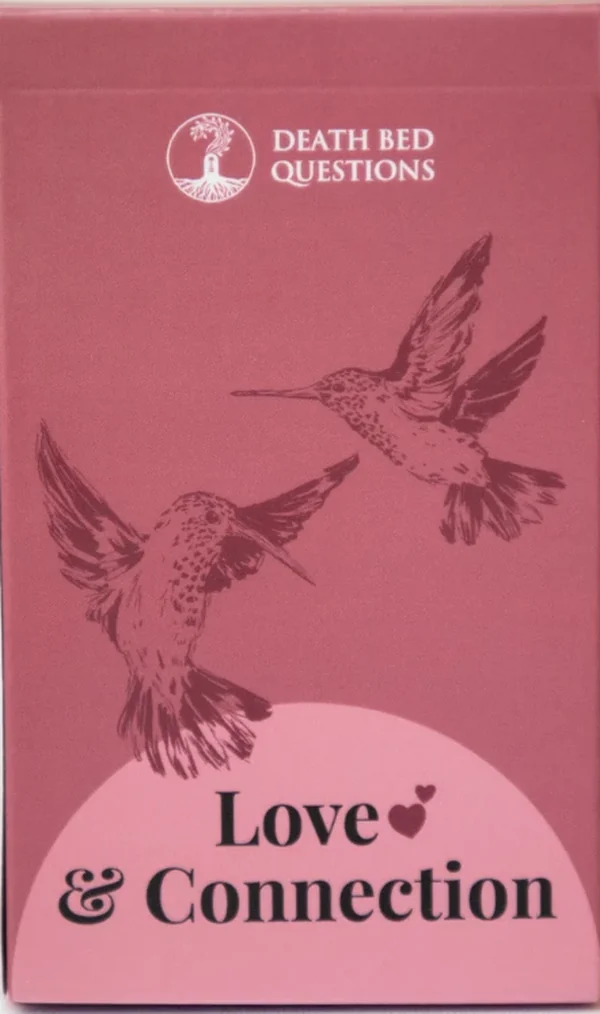
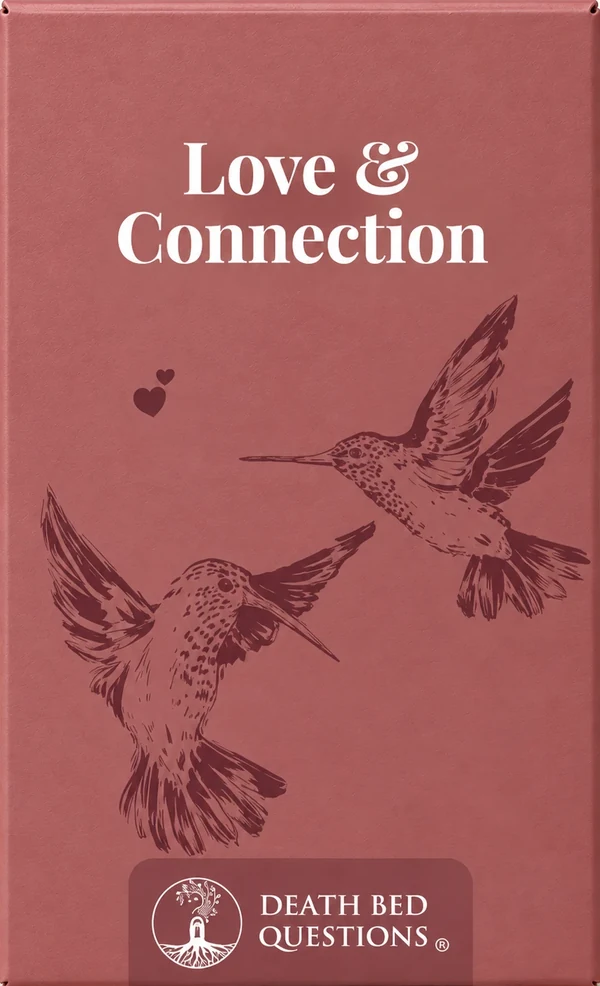
Update all tuckbox images and the Professional hero photo (#18)
* Update five tuckbox images to the new box designs

Replaces the Essential Collection, Roots & Heritage, Meaning & Purpose,
Love & Connection and Childhood & Becoming box photos with the updated
designs.

Claude-Session: https://claude.ai/code/session_01MMTr2rWwJKcpLnpDTzj8b1

* Update Loss, Regret & Forgiveness and Legacy & Letting Go box images

All seven tuckboxes now use the new box designs.

Claude-Session: https://claude.ai/code/session_01MMTr2rWwJKcpLnpDTzj8b1

* Professional: new hero photo of a conversation

Replaces the hands-and-candles image with a photo of two women in
conversation, positioned to keep both faces and hands in the arch.

Claude-Session: https://claude.ai/code/session_01MMTr2rWwJKcpLnpDTzj8b1

---------

diff --git a/_layouts/default.html b/_layouts/default.html
@@ -1,1 +1,1 @@
-<!doctype html><html lang="en-GB"><head><meta charset="utf-8"><meta name="viewport" content="width=device-width, initial-scale=1"><title>{% if page.title %}{{ page.title }} | {% endif %}{{ site.title }}</title><meta name="description" content="{{ page.description | default: site.description | escape }}"><meta name="theme-color" content="#999a7f"><link rel="icon" type="image/png" sizes="32x32" href="{{ site.baseurl }}/assets/images/cropped-logo-1-32x32.png?v=20260901-2"><link rel="icon" type="image/png" sizes="192x192" href="{{ site.baseurl }}/assets/images/cropped-logo-1-192x192.png?v=20260901-2"><link rel="apple-touch-icon" sizes="180x180" href="{{ site.baseurl }}/assets/images/cropped-logo-1-180x180.png?v=20260901-2"><meta name="google-site-verification" content="vd-xPDThsYHs_EZ51mSjbCY0LyaanGcsAlE2EaH8i6Y"><link rel="preconnect" href="https://fonts.googleapis.com"><link rel="preconnect" href="https://fonts.gstatic.com" crossorigin><link href="https://fonts.googleapis.com/css?family=Playfair:300,400,500,600,700,800,300italic,400italic,600italic,700italic,800italic|Playfair+Display:300,400,500,600,700,800|Inter:300,400,500,600&amp;display=swap" rel="stylesheet"><link href="https://fonts.googleapis.com/css2?family=DM+Sans:opsz,wght@9..40,400;9..40,500;9..40,600;9..40,700&amp;family=Playfair+Display:ital,wght@0,500;0,600;0,700;0,800;1,500;1,600&amp;display=swap" rel="stylesheet"><link rel="stylesheet" href="{{ site.baseurl }}/assets/css/main.css?v=20261002-6"><link rel="canonical" href="{{ page.url | absolute_url }}"><script type="application/ld+json">{"@context":"https://schema.org","@type":"Organization","name":"Death Bed Questions","url":"https://deathbedquestions.com/","logo":"https://deathbedquestions.com/assets/images/logo.png","sameAs":["https://www.instagram.com/deathbedquestions"]}</script></head><body{% if page.url == "/" %} class="is-home"{% endif %}>{% include header.html %}<main id="main">{{ content }}</main>{% include footer.html %}<script src="{{ site.baseurl }}/assets/js/main.js?v=20261002-1"></script></body></html>
+<!doctype html><html lang="en-GB"><head><meta charset="utf-8"><meta name="viewport" content="width=device-width, initial-scale=1"><title>{% if page.title %}{{ page.title }} | {% endif %}{{ site.title }}</title><meta name="description" content="{{ page.description | default: site.description | escape }}"><meta name="theme-color" content="#999a7f"><link rel="icon" type="image/png" sizes="32x32" href="{{ site.baseurl }}/assets/images/cropped-logo-1-32x32.png?v=20260901-2"><link rel="icon" type="image/png" sizes="192x192" href="{{ site.baseurl }}/assets/images/cropped-logo-1-192x192.png?v=20260901-2"><link rel="apple-touch-icon" sizes="180x180" href="{{ site.baseurl }}/assets/images/cropped-logo-1-180x180.png?v=20260901-2"><meta name="google-site-verification" content="vd-xPDThsYHs_EZ51mSjbCY0LyaanGcsAlE2EaH8i6Y"><link rel="preconnect" href="https://fonts.googleapis.com"><link rel="preconnect" href="https://fonts.gstatic.com" crossorigin><link href="https://fonts.googleapis.com/css?family=Playfair:300,400,500,600,700,800,300italic,400italic,600italic,700italic,800italic|Playfair+Display:300,400,500,600,700,800|Inter:300,400,500,600&amp;display=swap" rel="stylesheet"><link href="https://fonts.googleapis.com/css2?family=DM+Sans:opsz,wght@9..40,400;9..40,500;9..40,600;9..40,700&amp;family=Playfair+Display:ital,wght@0,500;0,600;0,700;0,800;1,500;1,600&amp;display=swap" rel="stylesheet"><link rel="stylesheet" href="{{ site.baseurl }}/assets/css/main.css?v=20261020-1"><link rel="canonical" href="{{ page.url | absolute_url }}"><script type="application/ld+json">{"@context":"https://schema.org","@type":"Organization","name":"Death Bed Questions","url":"https://deathbedquestions.com/","logo":"https://deathbedquestions.com/assets/images/logo.png","sameAs":["https://www.instagram.com/deathbedquestions"]}</script></head><body{% if page.url == "/" %} class="is-home"{% endif %}>{% include header.html %}<main id="main">{{ content }}</main>{% include footer.html %}<script src="{{ site.baseurl }}/assets/js/main.js?v=20261002-1"></script></body></html>

diff --git a/assets/css/main.css b/assets/css/main.css
@@ -767,7 +767,7 @@ html{scroll-behavior:smooth}
 .pr-principles{padding:110px 0;background:linear-gradient(180deg,#eef0e6,#e9ecdf)}
 .pr-responsibility{margin:40px auto 0;max-width:900px;padding:30px 36px;border-radius:20px;background:#fff;border:1px solid #dfe2d3;border-left:4px solid var(--hp-olive)}
 .pr-responsibility p:not(.pr-result-label){margin:0;font-size:16.5px;line-height:1.7;color:var(--hp-body)}
-.pr-hero-media img{display:block;width:100%;height:440px;object-fit:cover;object-position:40% 50%;border-radius:220px 220px 24px 24px;box-shadow:0 30px 60px -18px rgba(20,18,10,.55)}
+.pr-hero-media img{display:block;width:100%;height:440px;object-fit:cover;object-position:50% 18%;border-radius:220px 220px 24px 24px;box-shadow:0 30px 60px -18px rgba(20,18,10,.55)}
 .pr-fan{position:relative;height:420px}
 .pr-fan img{position:absolute;left:50%;top:40px;width:210px;margin-left:-105px;border-radius:18px;box-shadow:0 22px 44px -12px rgba(60,45,25,.38);transform-origin:50% 120%}
 .pr-fan img:nth-child(1){rotate:-14deg;translate:-110px 18px}

diff --git a/the-decks/index.html b/the-decks/index.html
@@ -39,7 +39,7 @@ permalink: /the-decks/
 <h2 class="dk-list-title">Six themes, one for every part of a life.</h2>
 {% for d in themed %}
 <article id="{{ d.anchor }}" class="dk-row hp-reveal{% cycle '', ' dk-row-flip' %}" style="--deck: {{ d.color }}">
-<div class="dk-row-media"><span class="dk-row-circle" aria-hidden="true"></span>{% if d.box %}<img class="dk-box" src="{{ site.baseurl }}{{ d.box }}" alt="{{ d.name }} tuckbox" width="600" height="1003" loading="lazy">{% else %}<img src="{{ site.baseurl }}{{ d.image }}" alt="{{ d.name }} deck artwork" loading="lazy">{% endif %}</div>
+<div class="dk-row-media"><span class="dk-row-circle" aria-hidden="true"></span>{% if d.box %}<img class="dk-box" src="{{ site.baseurl }}{{ d.box }}" alt="{{ d.name }} tuckbox" width="600" height="986" loading="lazy">{% else %}<img src="{{ site.baseurl }}{{ d.image }}" alt="{{ d.name }} deck artwork" loading="lazy">{% endif %}</div>
 <div class="dk-row-copy">
 <p class="dk-num">{% if forloop.index < 10 %}0{% endif %}{{ forloop.index }}</p>
 <h3>{{ d.name }}</h3>

diff --git a/_layouts/deck.html b/_layouts/deck.html
@@ -16,7 +16,7 @@ layout: default
 {% if d.essential and d.box == nil %}
 <div class="pd-fan" aria-hidden="true">{% for p in pick %}{% assign idx = p | plus: 0 %}<img src="{{ site.baseurl }}{{ themed[idx].image }}" alt="">{% endfor %}</div>
 {% else %}
-{% if d.box %}<img class="pd-card pd-box" src="{{ site.baseurl }}{{ d.box }}" alt="{{ d.name }} tuckbox" width="600" height="1003">{% else %}<img class="pd-card" src="{{ site.baseurl }}{{ d.image }}" alt="{{ d.name }} deck artwork">{% endif %}
+{% if d.box %}<img class="pd-card pd-box" src="{{ site.baseurl }}{{ d.box }}" alt="{{ d.name }} tuckbox" width="600" height="986">{% else %}<img class="pd-card" src="{{ site.baseurl }}{{ d.image }}" alt="{{ d.name }} deck artwork">{% endif %}
 {% endif %}
 </div>
 <div class="pd-copy hp-intro">

diff --git a/professional-edition/index.html b/professional-edition/index.html
@@ -14,7 +14,7 @@ permalink: /professional-edition/
 <p class="pr-hero-sub">A facilitator’s guide for professionals who support people through illness, loss and the end of life.</p>
 <nav class="pr-jump" aria-label="On this page"><a href="#what">What it is</a><a href="#uses">How it can be used</a><a href="#role">Find your role</a><a href="#principles">Safe practice</a></nav>
 </div>
-<div class="pr-hero-media hp-intro-late"><img src="{{ img }}/home/pro-hands.webp" alt="Two people holding hands beside candles" width="600" height="450"></div>
+<div class="pr-hero-media hp-intro-late"><img src="{{ img }}/home/pro-conversation.webp" alt="A woman in conversation with an older woman, both gesturing as they talk" width="900" height="1125"></div>
 </div>
 </section>
 
